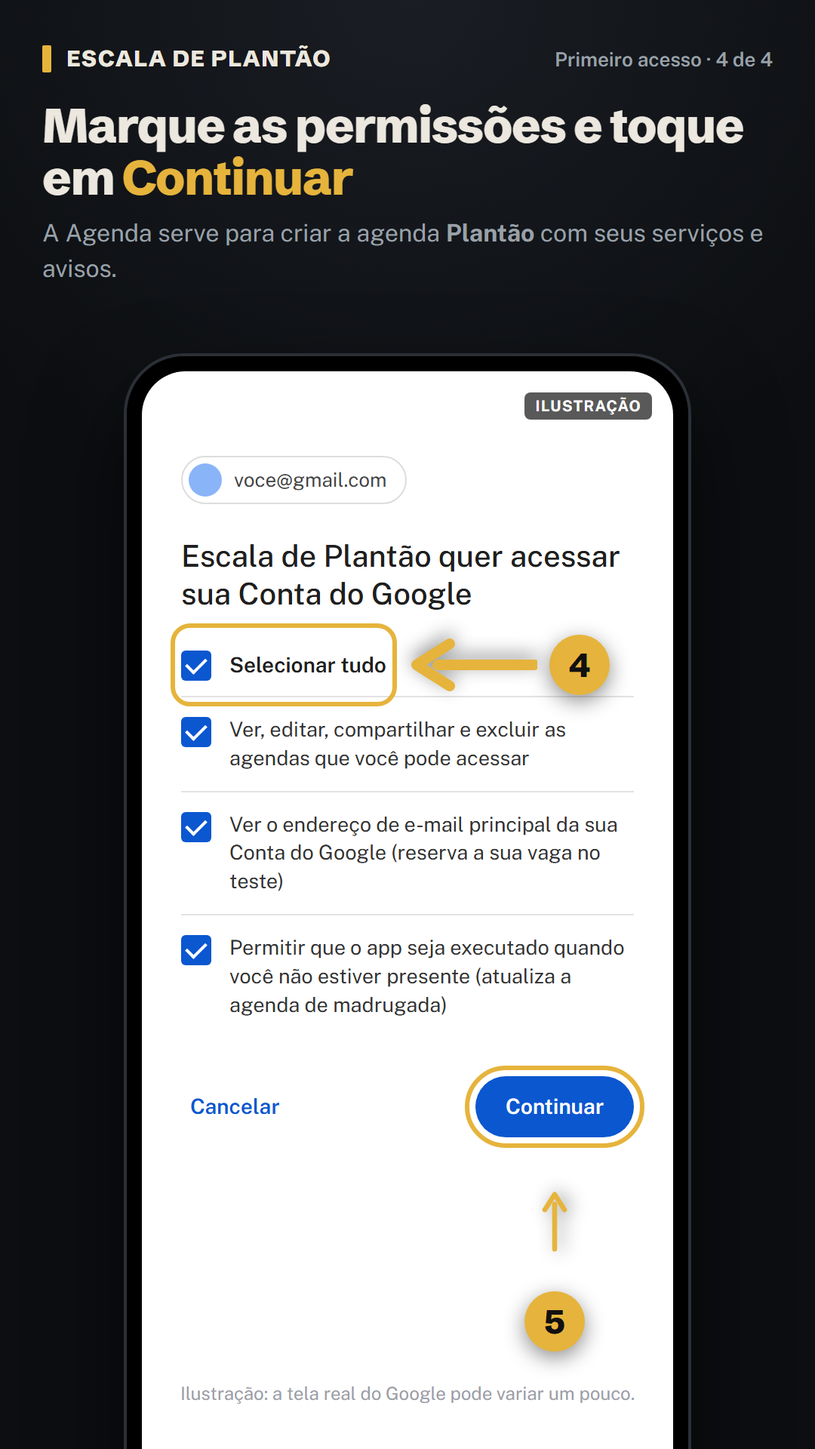
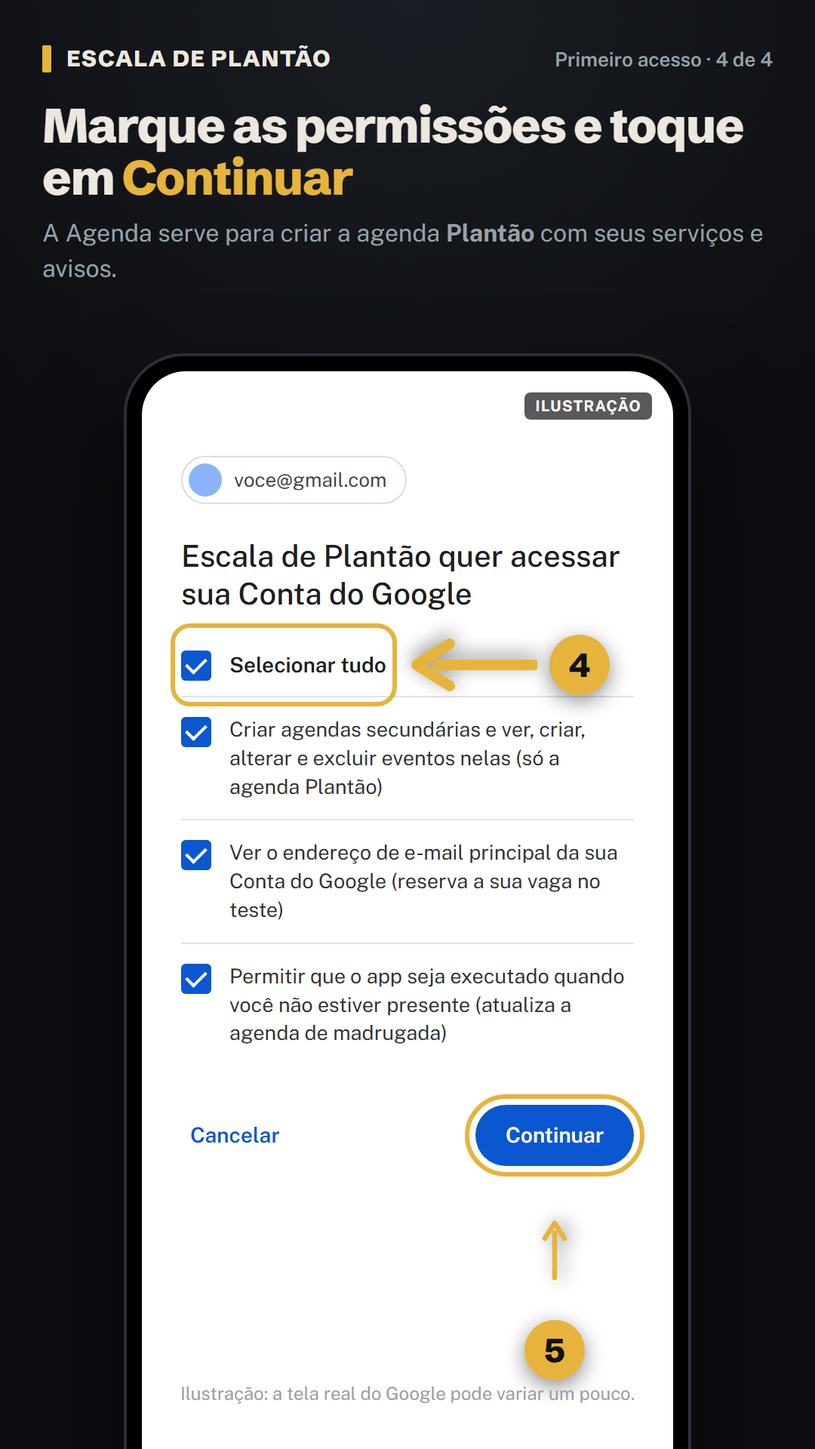
Agenda com escopo calendar.app.created (só a agenda Plantão) e seção Privacidade
Troca CalendarApp pelo serviço avançado Calendar v3: o app passa a pedir
acesso só às agendas que ele cria. Marcas k/sig vão em extendedProperties
na mesma chamada que cria o evento, o que dispensa TITULO_APP.

Changed region(s): [[0.2139, 0.5, 0.7944, 0.9688], [0.2444, 0.75, 0.3361, 0.8125]]

diff --git a/Código.js b/Código.js
@@ -430,8 +430,9 @@ function api_apagarTudo() {
   try {
     const props = srvProps_();
     const id = props.getProperty('cal');
-    const cal = id ? CalendarApp.getCalendarById(id) : null;
-    if (cal) cal.deleteCalendar();
+    if (id) {
+      try { Calendar.Calendars.remove(id); } catch (e) { if (!srvNaoAchou_(e)) throw e; }
+    }
     srvRemoverGatilho_();
     props.deleteAllProperties();
     return { ok: true };
@@ -442,21 +443,30 @@ function api_apagarTudo() {
 
 /* ---------------- agenda do Google ---------------- */
 
+/*
+ * A agenda usa o serviço avançado Calendar (API v3) com o escopo calendar.app.created:
+ * o app só enxerga e altera as agendas que ele mesmo criou, nunca as outras agendas da pessoa.
+ */
+
+/** Cor de evento (colorId da API do Google Agenda) por tipo de serviço. */
+const COR_EVENTO = { dia: '5', noite: '2', extra: '4', permuta: '9' };
+
+function srvNaoAchou_(e) { return /not ?found|404|forbidden|403/i.test(String((e && e.message) || e)); }
+
+/** Devolve o id da agenda "Plantão", criando de novo se ela não existir mais (apagada pela pessoa). */
 function srvAgenda_() {
   const props = srvProps_();
   const id = props.getProperty('cal');
-  let cal = id ? CalendarApp.getCalendarById(id) : null;
-  if (!cal) {
-    const tz = CalendarApp.getDefaultCalendar().getTimeZone();
-    cal = CalendarApp.createCalendar(NOME_AGENDA, {
-      timeZone: tz,
-      color: CalendarApp.Color.BLUE,
-      description: 'Criada pelo app Escala de Plantão. Não edite os eventos à mão: o app reescreve esta agenda.',
-      selected: true
-    });
-    props.setProperty('cal', cal.getId());
+  if (id) {
+    try { Calendar.Calendars.get(id); return id; } catch (e) { if (!srvNaoAchou_(e)) throw e; }
   }
-  return cal;
+  const cal = Calendar.Calendars.insert({
+    summary: NOME_AGENDA,
+    timeZone: Session.getScriptTimeZone(),
+    description: 'Criada pelo app Escala de Plantão. Não edite os eventos à mão: o app reescreve esta agenda.'
+  });
+  props.setProperty('cal', cal.id);
+  return cal.id;
 }
 
 function srvEspec_(t, tz) {
@@ -464,44 +474,33 @@ function srvEspec_(t, tz) {
   let titulo, cor, desc;
   if (t.origem === 'escala') {
     titulo = 'Plantão — ' + nomeT;
-    cor = t.tipo === 'dia' ? CalendarApp.EventColor.YELLOW : CalendarApp.EventColor.PALE_GREEN;
+    cor = t.tipo === 'dia' ? COR_EVENTO.dia : COR_EVENTO.noite;
     desc = 'Serviço da escala, das ' + t.ini + ' às ' + t.fim + '.';
   } else if (t.origem === 'extra') {
     titulo = 'DRSO — ' + String(t.horas).replace('.', ',') + 'h';
-    cor = CalendarApp.EventColor.PALE_RED;
+    cor = COR_EVENTO.extra;
     desc = 'DRSO, das ' + t.ini + ' às ' + t.fim + '.' + (t.ev && t.ev.obs ? ' ' + t.ev.obs : '');
   } else {
     titulo = 'Plantão (permuta com ' + (t.ev && t.ev.pessoa ? t.ev.pessoa : 'colega') + ')';
-    cor = CalendarApp.EventColor.BLUE;
+    cor = COR_EVENTO.permuta;
     desc = 'Serviço assumido em permuta, das ' + t.ini + ' às ' + t.fim + '.' + (t.ev && t.ev.obs ? ' ' + t.ev.obs : '');
   }
   const alertas = t.tipo === 'custom' ? [120] : ((S.alertas && S.alertas[t.tipo]) || []).filter(function (m) { return m > 0; });
-  const inicio = Utilities.parseDate(t.data + ' ' + t.ini, tz, 'yyyy-MM-dd HH:mm');
-  const fim = Utilities.parseDate(t.dataFim + ' ' + t.fim, tz, 'yyyy-MM-dd HH:mm');
+  const inicio = t.data + 'T' + t.ini + ':00', fim = t.dataFim + 'T' + t.fim + ':00';
   const key = t.data + '|' + t.ini + '|' + t.fim + '|' + t.origem;
-  const sig = JSON.stringify([titulo, inicio.getTime(), fim.getTime(), desc, alertas, String(cor)]);
-  return { key: key, titulo: titulo, desc: desc, cor: cor, alertas: alertas, inicio: inicio, fim: fim, sig: sig };
-}
-
-/** Títulos gerados por srvEspec_ (precisa acompanhar se eles mudarem). */
-const TITULO_APP = /^(Plantão — (DIA|NOITE)|DRSO — [\d,]+h|Plantão \(permuta com .*\))$/;
-
-function srvAplicar_(ev, sp, novo) {
-  // a marca "k" vem primeiro: se algo falhar depois, o evento já é reconhecido e será ajustado na próxima rodada
-  ev.setTag('k', sp.key);
-  if (!novo) {
-    ev.setTitle(sp.titulo);
-    ev.setTime(sp.inicio, sp.fim);
-    ev.setDescription(sp.desc);
-  }
-  ev.setColor(sp.cor);
-  ev.removeAllReminders();
-  sp.alertas.forEach(function (m) { ev.addPopupReminder(m); });
-  ev.setTag('sig', sp.sig);
+  const sig = JSON.stringify([titulo, inicio, fim, desc, alertas, cor]);
+  // a marca (k, sig) vai junto na mesma chamada: não sobra evento do app sem marca se algo falhar
+  const recurso = {
+    summary: titulo, description: desc, colorId: cor,
+    start: { dateTime: inicio, timeZone: tz }, end: { dateTime: fim, timeZone: tz },
+    reminders: { useDefault: false, overrides: alertas.map(function (m) { return { method: 'popup', minutes: m }; }) },
+    extendedProperties: { private: { k: key, sig: sig } }
+  };
+  return { key: key, sig: sig, recurso: recurso };
 }
 
 function srvLimite_(e) {
-  return /muitas agendas|muitos eventos|too many calendars|too many events|rate limit/i.test(String((e && e.message) || e));
+  return /muitas agendas|muitos eventos|too many calendars|too many events|rate ?limit|usage limits|quota/i.test(String((e && e.message) || e));
 }
 
 function srvConfigurado_(estado) { return !!(estado && estado.ciclos && estado.ciclos.length); }
@@ -523,8 +522,8 @@ function srvSincronizar_() {
   const estado = srvLerEstado_();
   if (!srvConfigurado_(estado)) throw new Error('Escala ainda não configurada.');
   S = normalizar(estado);
-  const cal = srvAgenda_();
-  const tz = cal.getTimeZone();
+  const calId = srvAgenda_();
+  const tz = Session.getScriptTimeZone();
   const hojeStr = Utilities.formatDate(new Date(), tz, 'yyyy-MM-dd');
   const ateStr = addDias(hojeStr, HORIZONTE_DIAS);
   const desej = {};
@@ -553,31 +552,29 @@ function srvSincronizar_() {
       return false;
     }
   }
-  cal.getEvents(ini, fimJanela).forEach(function (ev) {
-    if (ev.getStartTime().getTime() < ini.getTime()) return;
-    const k = ev.getTag('k');
-    if (!k) {
-      // sobra de uma rodada interrompida: evento do app sem marca. Só mexe se o título é exatamente um dos que o app cria.
-      if (TITULO_APP.test(ev.getTitle())) { if (tentar(function () { ev.deleteEvent(); })) removidos++; }
+  let existentes = [], pagina;
+  do {
+    const r = Calendar.Events.list(calId, { timeMin: ini.toISOString(), timeMax: fimJanela.toISOString(), singleEvents: true, maxResults: 2500, pageToken: pagina });
+    existentes = existentes.concat(r.items || []);
+    pagina = r.nextPageToken;
+  } while (pagina);
+  existentes.forEach(function (ev) {
+    if (new Date(ev.start.dateTime || ev.start.date).getTime() < ini.getTime()) return;
+    const marca = (ev.extendedProperties && ev.extendedProperties.private) || {};
+    if (!marca.k) return; // evento posto à mão na agenda Plantão: não é do app, fica
+    const sp = desej[marca.k];
+    if (!sp || vistos[marca.k]) {
+      if (tentar(function () { Calendar.Events.remove(calId, ev.id); })) removidos++;
       return;
     }
-    const sp = desej[k];
-    if (!sp || vistos[k]) {
-      if (tentar(function () { ev.deleteEvent(); })) removidos++;
-      return;
-    }
-    vistos[k] = true;
-    if (ev.getTag('sig') !== sp.sig) {
-      if (tentar(function () { srvAplicar_(ev, sp, false); })) atualizados++;
+    vistos[marca.k] = true;
+    if (marca.sig !== sp.sig) {
+      if (tentar(function () { Calendar.Events.update(sp.recurso, calId, ev.id); })) atualizados++;
     }
   });
   Object.keys(desej).forEach(function (k) {
     if (vistos[k]) return;
-    const sp = desej[k];
-    if (tentar(function () {
-      const ev = cal.createEvent(sp.titulo, sp.inicio, sp.fim, { description: sp.desc });
-      srvAplicar_(ev, sp, true);
-    })) criados++;
+    if (tentar(function () { Calendar.Events.insert(desej[k].recurso, calId); })) criados++;
   });
   srvGarantirGatilho_();
   const info = { ate: ateStr, quando: Utilities.formatDate(new Date(), tz, 'dd/MM HH:mm'), criados: criados, removidos: removidos, atualizados: atualizados, pendente: pendente, limite: limite };

diff --git a/testes/testes.js b/testes/testes.js
@@ -16,9 +16,32 @@ for (const m of cli.matchAll(/<script>([\s\S]*?)<\/script>/g)) new Function(m[1]
 // 1. o motor é igual no servidor e no cliente
 assert.strictEqual(bloco(srv), bloco(cli), 'bloco UTIL/ENGINE diferente entre Código.js e Index.html');
 
+const pad2 = n => String(n).padStart(2, '0'), iso = (y, m, d) => y + '-' + pad2(m) + '-' + pad2(d);
+
+// serviço avançado Calendar (API v3) falso: agendas e eventos em memória
+function agendaFalsa(apagadas) {
+  const cals = {}, evs = {};
+  let n = 0;
+  const naoAchou = () => { throw new Error('Not Found'); };
+  return {
+    cals, evs,
+    Calendars: {
+      get: id => cals[id] || naoAchou(),
+      insert: r => (cals['cal' + (++n)] = Object.assign({ id: 'cal' + n }, r)),
+      remove: id => { if (!cals[id]) naoAchou(); delete cals[id]; apagadas.push(id); },
+    },
+    Events: {
+      list: id => ({ items: Object.values(evs).filter(e => e.cal === id) }),
+      insert: (r, id) => (evs['e' + (++n)] = Object.assign(JSON.parse(JSON.stringify(r)), { id: 'e' + n, cal: id })),
+      update: (r, id, eid) => { evs[eid] = Object.assign(JSON.parse(JSON.stringify(r)), { id: eid, cal: id }); },
+      remove: (id, eid) => { delete evs[eid]; },
+    },
+  };
+}
+
 // carrega Código.js com PropertiesService e Utilities falsos, numa data fixa
 function carregar(ano) {
-  const agendaApagada = [], props = {}, sprops = {}, quem = { email: 'eu@x.com' }, gatilhos = [{ getHandlerFunction: () => 'sincronizarDiario' }];
+  const agendaApagada = [], agenda = agendaFalsa(agendaApagada), props = {}, sprops = {}, quem = { email: 'eu@x.com' }, gatilhos = [{ getHandlerFunction: () => 'sincronizarDiario' }];
   const RealDate = Date;
   class D extends RealDate { constructor(...a) { a.length ? super(...a) : super(ano, 5, 1); } }
   D.UTC = RealDate.UTC; D.now = () => new D().getTime();
@@ -36,14 +59,16 @@ function carregar(ano) {
       setProperty: (k, v) => { sprops[k] = v; },
     }) },
     Session: { getActiveUser: () => ({ getEmail: () => quem.email }), getScriptTimeZone: () => 'America/Fortaleza' },
-    Utilities: { newBlob: s => ({ getBytes: () => Buffer.from(s, 'utf8') }), formatDate: () => '01/06 10:00' },
+    Utilities: { newBlob: s => ({ getBytes: () => Buffer.from(s, 'utf8') }), formatDate: (d, tz, f) => (f === 'yyyy-MM-dd' ? iso(d.getFullYear(), d.getMonth() + 1, d.getDate()) : '01/06 10:00'),
+      parseDate: s => new D(s.replace(' ', 'T') + ':00'), sleep() {} },
     LockService: { getUserLock: () => ({ waitLock() {}, releaseLock() {} }), getScriptLock: () => ({ waitLock() {}, releaseLock() {} }) },
-    CalendarApp: { getCalendarById: id => (id === 'cal1' ? { deleteCalendar: () => { agendaApagada.push(id); } } : null) },
-    ScriptApp: { getProjectTriggers: () => gatilhos.slice(), deleteTrigger: g => gatilhos.splice(gatilhos.indexOf(g), 1) },
+    Calendar: agenda,
+    ScriptApp: { getProjectTriggers: () => gatilhos.slice(), deleteTrigger: g => gatilhos.splice(gatilhos.indexOf(g), 1),
+      newTrigger: () => ({ timeBased: () => ({ everyDays: () => ({ atHour: () => ({ create: () => gatilhos.push({ getHandlerFunction: () => 'sincronizarDiario' }) }) }) }) }) },
   };
   vm.createContext(ctx);
-  vm.runInContext(srv + ';this.E={pascoa,feriadosDoAno,PADRAO,normalizar,srvLerEstado_,srvGravarEstado_,api_salvar,api_apagarTudo,sincronizarDiario,srvAcesso_,api_carregar,TITULO_APP,calcDRSO,mkTurno,setS:x=>{S=x}};', ctx);
-  return { E: ctx.E, props, sprops, quem, gatilhos, agendaApagada };
+  vm.runInContext(srv + ';this.E={pascoa,feriadosDoAno,PADRAO,normalizar,srvLerEstado_,srvGravarEstado_,api_salvar,api_apagarTudo,sincronizarDiario,srvAcesso_,api_carregar,srvSincronizar_,calcDRSO,mkTurno,setS:x=>{S=x}};', ctx);
+  return { E: ctx.E, props, sprops, quem, gatilhos, agendaApagada, agenda };
 }
 
 // 2. feriados: Páscoa e regra igual à lista fixa antiga de 2026–2027
@@ -92,9 +117,35 @@ assert.deepStrictEqual(E.PADRAO().feriados, ANTIGA);
   assert.strictEqual(E.srvLerEstado_().rev, 1, 'nada deveria ter sido gravado');
 }
 
-// 5. limpeza da agenda só reconhece títulos que o app cria
-['Plantão — DIA', 'Plantão — NOITE', 'DRSO — 6h', 'DRSO — 7,5h', 'Plantão (permuta com João)'].forEach(t => assert.ok(E.TITULO_APP.test(t), t));
-['Plantão extra combinado', 'Plantão', 'DRSO — reunião'].forEach(t => assert.ok(!E.TITULO_APP.test(t), t));
+// 5. sincronização da agenda: cria a agenda e os eventos marcados, ajusta o que mudou e não mexe em evento posto à mão
+{
+  const { E, props, agenda } = carregar(2026);
+  E.api_salvar(Object.assign(E.PADRAO(), { ciclos: [{ desde: '2026-06-01', seq: ['dia', 'noite', 'folga', 'folga'] }] }), 0);
+  // roda até não sobrar pendência (cada rodada faz no máximo LOTE_OPS operações) e soma os contadores
+  const sinc = () => { const t = { criados: 0, removidos: 0, atualizados: 0 }; let x; do { x = E.srvSincronizar_(); for (const k in t) t[k] += x[k]; } while (x.pendente); return t; };
+  let r = sinc();
+  const calId = props.cal;
+  assert.ok(agenda.cals[calId], 'agenda Plantão criada');
+  const doApp = () => Object.values(agenda.evs).filter(e => e.extendedProperties && e.extendedProperties.private.k);
+  assert.ok(r.criados > 0 && doApp().length === r.criados);
+  const dia = doApp().find(e => e.summary === 'Plantão — DIA');
+  assert.deepStrictEqual(dia.reminders.overrides, [{ method: 'popup', minutes: 600 }]);
+  assert.strictEqual(dia.start.dateTime.slice(10), 'T06:00:00');
+  agenda.Events.insert({ summary: 'meu compromisso', start: { dateTime: '2026-06-02T10:00:00' } }, calId);
+  r = sinc();
+  assert.strictEqual(r.criados + r.removidos + r.atualizados, 0, 'segunda rodada sem mudanças');
+  assert.ok(Object.values(agenda.evs).some(e => e.summary === 'meu compromisso'), 'evento posto à mão continua');
+  // muda o alerta do turno de dia: os eventos de dia são atualizados, nada é recriado
+  const est = E.srvLerEstado_(); est.alertas.dia = [480];
+  E.api_salvar(est, est.rev);
+  r = sinc();
+  assert.ok(r.atualizados > 0 && r.criados === 0 && r.removidos === 0);
+  assert.ok(doApp().filter(e => e.summary === 'Plantão — DIA').every(e => e.reminders.overrides[0].minutes === 480));
+  // agenda apagada pela pessoa: o app cria outra
+  delete agenda.cals[calId];
+  E.srvSincronizar_();
+  assert.ok(props.cal !== calId && agenda.cals[props.cal]);
+}
 
 // 6. gatilho diário se remove quando não há escala configurada
 {
@@ -105,9 +156,9 @@ assert.deepStrictEqual(E.PADRAO().feriados, ANTIGA);
 
 // 7. apagar tudo: limpa propriedades, apaga a agenda e o gatilho
 {
-  const { E, props, gatilhos, agendaApagada } = carregar(2026);
+  const { E, props, gatilhos, agendaApagada, agenda } = carregar(2026);
   assert.ok(E.api_salvar(Object.assign(E.PADRAO(), { ciclos: [{ desde: '2026-01-01', seq: ['dia'] }] }), 0).ok);
-  props.cal = 'cal1';
+  props.cal = 'cal1'; agenda.cals.cal1 = { id: 'cal1' };
   assert.ok(E.api_apagarTudo().ok);
   assert.deepStrictEqual(Object.keys(props), []);
   assert.deepStrictEqual(agendaApagada, ['cal1']);

diff --git a/Index.html b/Index.html
@@ -147,6 +147,7 @@ button.lin:hover{background:var(--surface)}
 
 /* números do resumo: placar */
 .resumo{display:grid;grid-template-columns:repeat(3,minmax(0,1fr));gap:1px;background:var(--line);border-radius:var(--r);overflow:hidden;box-shadow:0 0 0 1px var(--line)}
+.priv p{margin:0 0 10px;line-height:1.5}.priv p:last-child{margin:0}.priv a{color:var(--ouro);word-break:break-all}
 .num{background:var(--surface);padding:12px;display:flex;flex-direction:column}
 .num b{font:800 28px/1.05 var(--f-disp);letter-spacing:-.02em}
 .num span{font-size:12px;color:var(--muted);margin-top:4px;line-height:1.3}
@@ -614,7 +615,7 @@ function viewWizard(){
   '<div class="duo"><label class="fld"><span>Dia · início</span>'+tin('di','06:00')+'</label><label class="fld"><span>Dia · fim</span>'+tin('df','18:00')+'</label></div>'+
   '<div class="duo"><label class="fld"><span>Noite · início</span>'+tin('ni','18:00')+'</label><label class="fld"><span>Noite · fim</span>'+tin('nf','06:00')+'</label></div>'+
   '<label class="fld"><span>Valor da hora de DRSO (R$) · depende da graduação</span><input type="text" inputmode="decimal" data-w="vh" placeholder="pode preencher depois"></label>'+
-  '<p class="dica">O app cria uma agenda chamada <b>Plantão</b> no seu Google Agenda, com avisos antes de cada serviço. Os avisos podem ser ajustados depois, em Ajustes.</p>'+
+  '<p class="dica">O app cria uma agenda chamada <b>Plantão</b> no seu Google Agenda, com avisos antes de cada serviço, e só mexe nela: suas outras agendas ele não vê. Seus dados ficam na sua conta Google. Detalhes em Ajustes &gt; Privacidade.</p>'+
   '<button class="btn" style="margin-top:16px;width:100%" data-act="wz-ok">Criar minha escala e agenda</button></div>';
 }
 function viewHoje(){
@@ -866,6 +867,13 @@ function viewAjustes(){
   '<h2 class="sec">Ciclo da escala</h2><div class="card"><p>Toque em cada posição para alternar entre dia, noite e folga. Cada posição é um dia do calendário.</p><div class="seq">'+ui.draft.seq.map(seqChip).join('')+'</div><div class="acoes"><button class="btn mini sec" data-act="seq+">+ posição</button><button class="btn mini sec" data-act="seq-">− posição</button></div>'+
   '<label class="fld"><span>A posição 1 cai em</span><input type="date" id="c-desde" value="'+esc(ui.draft.desde)+'"></label><div id="previa" style="margin-top:12px">'+previaCiclo(ui.draft.seq,ui.draft.desde)+'</div><p class="dica">Valem a partir da data escolhida. O passado continua como estava.</p><button class="btn" style="margin-top:12px;width:100%" data-act="salvar-ciclo">Salvar novo ciclo</button></div>'+
   '<h2 class="sec">Ciclos registrados</h2><div class="lista">'+S.ciclos.slice().sort((a,b)=>a.desde<b.desde?-1:1).map(c=>'<div class="lin"><span class="d" style="min-width:0">'+fmtBR(c.desde)+'</span><span class="mono muted" style="font-size:12px">'+c.seq.map(x=>x[0].toUpperCase()).join(' ')+'</span>'+(S.ciclos.length>1?'<button class="btn mini sec" style="margin-left:auto" data-act="del-ciclo" data-arg="'+c.desde+'">Remover</button>':'')+'</div>').join('')+'</div>'+
+  '<h2 class="sec">Privacidade</h2><div class="card priv">'+
+  '<p><b>Onde ficam seus dados.</b> A escala, os lançamentos e os ajustes ficam guardados na sua conta Google, no espaço deste app. O app não envia seus lançamentos para ninguém.</p>'+
+  '<p><b>Google Agenda.</b> O app cria a agenda <b>Plantão</b> e só tem acesso a ela. Suas outras agendas ele não vê nem altera.</p>'+
+  '<p><b>O que o autor do app vê.</b> Durante o teste: seu e-mail (para reservar a vaga), a data do último acesso, quantas vezes você abriu o app e quantos lançamentos tem. Nunca o conteúdo: datas, valores e nomes ficam só com você.</p>'+
+  '<p><b>Atualização de madrugada.</b> Às 3h o app atualiza a agenda Plantão com os próximos 60 dias, mesmo com o celular desligado. É para isso a permissão de executar quando você não está presente.</p>'+
+  '<p><b>Para sair.</b> "Apagar tudo", logo abaixo, remove seus dados e a agenda Plantão. Depois, em <a href="https://myaccount.google.com/permissions" target="_blank" rel="noopener">myaccount.google.com/permissions</a>, você tira o acesso do app.</p>'+
+  '<p class="muted">O código do app é aberto: <a href="https://github.com/edu-estudos-dev/escala-plantao" target="_blank" rel="noopener">github.com/edu-estudos-dev/escala-plantao</a>.</p></div>'+
   '<h2 class="sec">Seus dados</h2><div class="card"><p class="muted">Salvos na sua conta Google, dentro deste aplicativo. Só você tem acesso aos seus lançamentos. Exporte uma cópia de vez em quando: o arquivo restaura tudo se algo der errado ou se você trocar de conta.</p>'+
   '<div class="acoes par"><button class="btn sec" data-act="exportar">Exportar cópia</button><label class="btn sec" style="cursor:pointer">Importar cópia<input type="file" id="imp" accept=".json,application/json" hidden></label></div>'+
   (ui.imp?'<p class="dica">O arquivo tem '+ui.imp.ciclos.length+' ciclo(s) e '+ui.imp.eventos.length+' lançamento(s). Importar <b>substitui tudo</b> o que está no app.</p><div class="acoes par"><button class="btn perigo" data-act="imp-ok">Substituir tudo</button><button class="btn sec" data-act="imp-cancelar">Cancelar</button></div>':'')+

diff --git a/testes/guia.html b/testes/guia.html
@@ -73,7 +73,7 @@ const T={
 ,
 4:topo('Primeiro acesso · 4 de 4')+
  '<h1>Marque as permissões e toque em <em>Continuar</em></h1><p class="sub">A Agenda serve para criar a agenda <b>Plantão</b> com seus serviços e avisos.</p>'+
- g('<div class="conta"><i></i>voce@gmail.com</div><h2 style="font-size:20px">Escala de Plantão quer acessar sua Conta do Google</h2><div class="sel alvo" data-n="4" data-dir="dir"><span class="chk"></span>Selecionar tudo</div><div class="perm"><span class="chk"></span><span>Ver, editar, compartilhar e excluir as agendas que você pode acessar</span></div><div class="perm"><span class="chk"></span><span>Ver o endereço de e-mail principal da sua Conta do Google (reserva a sua vaga no teste)</span></div><div class="perm"><span class="chk"></span><span>Permitir que o app seja executado quando você não estiver presente (atualiza a agenda de madrugada)</span></div><div class="botoes"><span class="bt cl">Cancelar</span><span class="bt alvo" data-n="5" data-dir="cima">Continuar</span></div>')
+ g('<div class="conta"><i></i>voce@gmail.com</div><h2 style="font-size:20px">Escala de Plantão quer acessar sua Conta do Google</h2><div class="sel alvo" data-n="4" data-dir="dir"><span class="chk"></span>Selecionar tudo</div><div class="perm"><span class="chk"></span><span>Criar agendas secundárias e ver, criar, alterar e excluir eventos nelas (só a agenda Plantão)</span></div><div class="perm"><span class="chk"></span><span>Ver o endereço de e-mail principal da sua Conta do Google (reserva a sua vaga no teste)</span></div><div class="perm"><span class="chk"></span><span>Permitir que o app seja executado quando você não estiver presente (atualiza a agenda de madrugada)</span></div><div class="botoes"><span class="bt cl">Cancelar</span><span class="bt alvo" data-n="5" data-dir="cima">Continuar</span></div>')
 ,
 5:topo('Configuração inicial')+
  '<h1>Informe seu <em>próximo serviço</em></h1><p class="sub">Dia ou noite, a data e o valor da sua hora de DRSO (depende da graduação). O app monta a escala e a agenda.</p>'+app('vazio'),

diff --git a/CLAUDE.md b/CLAUDE.md
@@ -16,13 +16,13 @@ Cada pessoa abre o app com a própria conta Google (`executeAs: USER_ACCESSING`,
 
 ## Organização do código
 
-- `appsscript.json`: manifesto (fuso America/Fortaleza, V8, escopos de calendar e script.scriptapp, configuração do web app).
+- `appsscript.json`: manifesto (fuso America/Fortaleza, V8, serviço avançado Calendar v3, escopos `calendar.app.created`, `script.scriptapp` e `userinfo.email`, configuração do web app).
 - `Código.js`: servidor.
   - Bloco **`//#UTIL-START` … `//#ENGINE-END`**: utilitários e motor de regras (`baseDoDia`, `turnosDoDia`, `calcDRSO`, `choques`, `resumo`, `relatorioMes`, `banco`, `ledger`…). Trabalha sobre o estado global `S`.
   - Armazenamento: `PropertiesService.getUserProperties()`. A config fica em `cfg`, e os eventos em blocos `ev0`, `ev1`… de até 6000 caracteres cada. Usa `rev` para controle otimista de concorrência.
   - API chamada pelo cliente: `api_carregar`, `api_salvar(estado, revBase)`, `api_sincronizar` e `api_apagarTudo` (apaga as propriedades, a agenda "Plantão" e o gatilho). As funções internas terminam em `_`.
   - Backup: Ajustes > Seus dados exporta e importa um JSON `{app:'escala-plantao', dados}`, validado por `lerCopia` no cliente.
-  - Agenda: `srvSincronizar_` compara o que existe com o que deveria existir pelas tags `k` (chave) e `sig` (assinatura). Faz no máximo 20 operações por rodada, com pausa de 500 ms entre elas.
+  - Agenda: usa o serviço avançado `Calendar` (API v3) com o escopo `calendar.app.created`, então o app só enxerga a agenda que ele criou (id em `cal` nas propriedades do usuário; se sumir, `srvAgenda_` cria outra). `srvSincronizar_` compara o que existe com o que deveria existir pelas marcas `k` (chave) e `sig` (assinatura) em `extendedProperties.private`, gravadas na mesma chamada que cria o evento. Evento sem marca foi posto à mão e não é mexido. Faz no máximo 20 operações por rodada, com pausa de 500 ms entre elas.
 - `Index.html`: o front inteiro (CSS, HTML e JS num só arquivo, sem framework). Usa uma **cópia idêntica** do bloco UTIL/ENGINE, além das views (`viewHoje`, `viewMes`, `viewLancar`, `viewSaldos`, `viewAjustes`), dos formulários e de `gs()`, um wrapper com Promise sobre `google.script.run`.
 
 **Importante:** o bloco entre `//#UTIL-START` e `//#ENGINE-END` precisa ficar igual nos dois arquivos. Toda mudança no motor deve ser feita nos dois.
@@ -34,7 +34,7 @@ Cada pessoa abre o app com a própria conta Google (`executeAs: USER_ACCESSING`,
 - Armazenamento: `cfg.nev` diz quantos blocos `evN` valem. Ao ler, blocos acima disso são ignorados. Há um limite de espaço em `LIMITE_BYTES`, abaixo dos ~500 KB que o Google permite.
 - Teste fechado: `srvAcesso_` (chamado em `doGet` e `api_carregar`) libera só os primeiros `VAGAS` e-mails (`Session.getActiveUser`, escopo `userinfo.email`). Eles ficam na propriedade do script `acessos`; e-mails em `livres` entram sem ocupar vaga. As duas se editam no editor, em Configurações do projeto > Propriedades do script. Apagar um e-mail de `acessos` libera a vaga.
 - Registro de uso: `srvRegistrarUso_` (em `api_carregar` e no `api_salvar` que deu certo) grava na propriedade do script `uso:<e-mail>` o último acesso, as aberturas e quantos lançamentos a pessoa tem. Nunca o conteúdo.
-- `TITULO_APP` precisa acompanhar os títulos gerados em `srvEspec_`, porque é por ele que a sincronização reconhece eventos do app que ficaram sem marca.
+- Privacidade: a seção em Ajustes explica o que é guardado e o que o autor vê. Se mudar o que é coletado (ex.: `srvRegistrarUso_`), atualize esse texto.
 
 ## Regras do projeto
 
